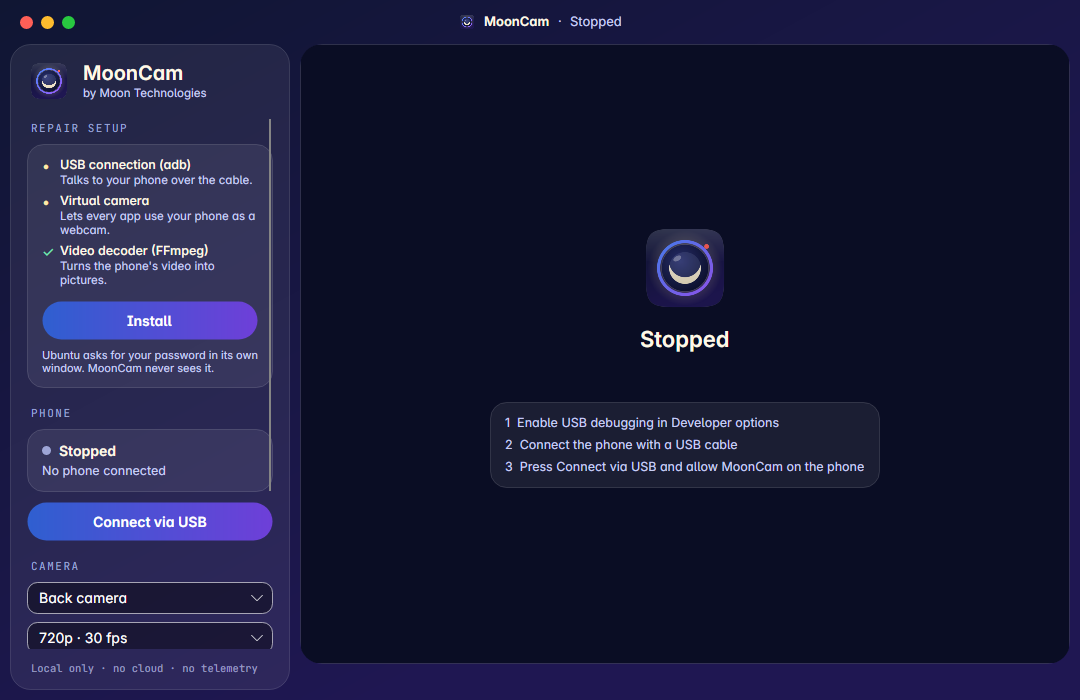
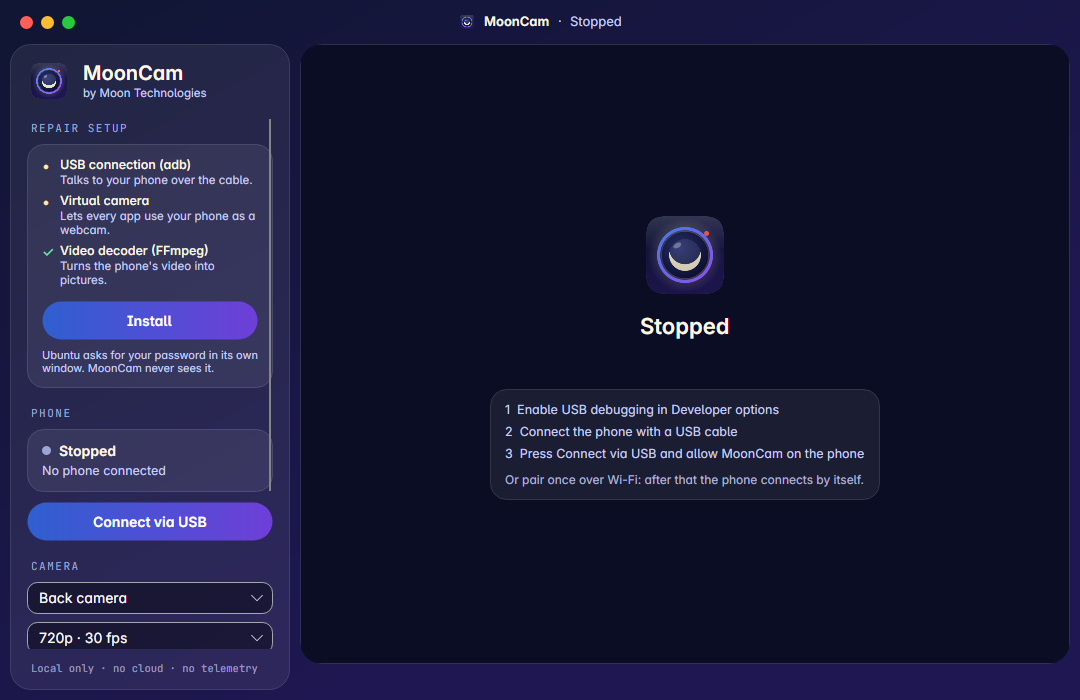
Show Wi-Fi pairing on the desktop: pair button, code to compare, paired phones
The pairing code appears large over the preview so it is compared at a
glance, paired phones can be removed, the desktop identity and paired-phone
store are created at start-up, and the package depends on avahi-utils so the
desktop is discoverable on the local network.

Changed region(s): [[0.4583, 0.57, 0.7944, 0.72], [0.5806, 0.3, 0.6722, 0.51]]

diff --git a/desktop/src/MoonCam.App/ViewModels/MainViewModel.cs b/desktop/src/MoonCam.App/ViewModels/MainViewModel.cs
@@ -14,6 +14,8 @@ public sealed record CameraOption(string Id, string Label);
 
 public sealed record PresetOption(string Label, int Width, int Height, int Fps);
 
+public sealed record PairedPhoneOption(string Name, string FingerprintHex, string Detail);
+
 /// <summary>
 /// State and commands of the main window. It knows nothing about Avalonia: UI-thread marshalling is
 /// injected, so the same class can be unit-tested.
@@ -43,10 +45,17 @@ public sealed partial class MainViewModel : ObservableObject, IDisposable
         _controller.StateChanged += state => _runOnUi(() => ShowState(state));
         _controller.CapabilitiesChanged += caps => _runOnUi(() => ShowCameras(caps));
         _controller.Notice += text => _runOnUi(() => Notice = text);
+        if (_controller.Pairing is { } pairing)
+        {
+            pairing.Changed += () => _runOnUi(ShowPairing);
+            pairing.Store.Changed += () => _runOnUi(ShowPairedPhones);
+        }
         _statsTimer = (time ?? TimeProvider.System).CreateTimer(_ => _runOnUi(UpdateStats), null, TimeSpan.FromSeconds(1), TimeSpan.FromSeconds(1));
 
         RefreshSetup();
         ShowState(_controller.State);
+        ShowPairing();
+        ShowPairedPhones();
     }
 
     public ObservableCollection<CameraOption> Cameras { get; } = [];
@@ -57,6 +66,10 @@ public sealed partial class MainViewModel : ObservableObject, IDisposable
 
     public ObservableCollection<Component> SetupItems { get; } = [];
 
+    public ObservableCollection<PairedPhoneOption> PairedPhones { get; } = [];
+
+    /// <summary>False when the desktop runs USB-only (no Wi-Fi identity).</summary>
+    public bool IsWiFiAvailable => _controller.Pairing is not null;
 
     [ObservableProperty] private string _statusTitle = "Starting…";
     [ObservableProperty] private string _statusDetail = "";
@@ -73,6 +86,11 @@ public sealed partial class MainViewModel : ObservableObject, IDisposable
     [ObservableProperty] private string _virtualCameraStatus = "";
     [ObservableProperty] private bool _isSetupComplete = true;
     [ObservableProperty] private bool _isInstalling;
+    [ObservableProperty] private bool _isPairingOpen;
+    [ObservableProperty] private string _pairingCountdown = "";
+    [ObservableProperty] private string? _pairingCode;
+    [ObservableProperty] private string _pairingPhone = "";
+    [ObservableProperty] private bool _hasPairedPhones;
 
     [RelayCommand]
     private async Task ConnectUsbAsync()
@@ -85,6 +103,32 @@ public sealed partial class MainViewModel : ObservableObject, IDisposable
         {
             Notice = e.Message;
         }
+    }
+
+    /// <summary>Opens the two-minute window in which a phone on the same Wi-Fi may pair.</summary>
+    [RelayCommand]
+    private void PairOverWiFi() => _controller.Pairing?.OpenWindow();
+
+    [RelayCommand]
+    private void CancelPairing()
+    {
+        _controller.Pairing?.RejectPending();
+        _controller.Pairing?.CloseWindow();
+    }
+
+    /// <summary>The user checked that the phone shows the same six digits.</summary>
+    [RelayCommand]
+    private void ApprovePairing()
+    {
+        if (_controller.Pairing?.ApprovePending() == true)
+            Notice = "Codes confirmed. Waiting for the phone to confirm too…";
+    }
+
+    [RelayCommand]
+    private void RemovePairedPhone(PairedPhoneOption phone)
+    {
+        _controller.Pairing?.Store.Remove(phone.FingerprintHex);
+        Notice = $"{phone.Name} can no longer connect over Wi-Fi.";
     }
 
     [RelayCommand]
@@ -178,10 +222,13 @@ public sealed partial class MainViewModel : ObservableObject, IDisposable
     {
         IsLive = state == ConnectionState.Streaming;
         IsWaiting = state is ConnectionState.Listening or ConnectionState.Reconnecting or ConnectionState.Stopped or ConnectionState.Handshaking;
-        PhoneName = _controller.Phone is { } phone ? $"{phone.Manufacturer} {phone.Model}" : "No phone connected";
+        var via = _controller.CurrentTransport switch { Transport.WiFi => " · Wi-Fi", Transport.Usb => " · USB", _ => "" };
+        PhoneName = _controller.Phone is { } phone ? $"{phone.Manufacturer} {phone.Model}{via}" : "No phone connected";
         (StatusTitle, StatusDetail) = state switch
         {
-            ConnectionState.Listening => ("Waiting for your phone", "Plug it in with a USB cable and press Connect."),
+            ConnectionState.Listening => ("Waiting for your phone", IsWiFiAvailable
+                ? "Open MoonCam on your phone: it connects over Wi-Fi once paired, or plug in the cable and press Connect via USB."
+                : "Plug it in with a USB cable and press Connect."),
             ConnectionState.Handshaking => ("Connecting…", "Checking that this is your phone."),
             ConnectionState.Connected => ("Connected", "Starting the camera…"),
             ConnectionState.Streaming => ("Live", "Your phone is streaming to this computer."),
@@ -190,25 +237,60 @@ public sealed partial class MainViewModel : ObservableObject, IDisposable
         };
     }
 
+    private void ShowPairing()
+    {
+        if (_controller.Pairing is not { } pairing)
+            return;
+        IsPairingOpen = pairing.IsWindowOpen || pairing.Pending is not null;
+        var request = pairing.Pending;
+        PairingCode = request is null ? null : Pairing.Format(request.Code);
+        PairingPhone = request?.PhoneName ?? "";
+        var remaining = pairing.Remaining;
+        PairingCountdown = string.Create(CultureInfo.InvariantCulture, $"{(int)remaining.TotalMinutes}:{remaining.Seconds:00}");
+    }
+
+    private void ShowPairedPhones()
+    {
+        PairedPhones.Clear();
+        foreach (var phone in _controller.Pairing?.Store.All ?? [])
+            PairedPhones.Add(new PairedPhoneOption(phone.Name, phone.FingerprintHex,
+                string.Create(CultureInfo.InvariantCulture, $"Paired {phone.PairedAt.LocalDateTime:d MMM yyyy}")));
+        HasPairedPhones = PairedPhones.Count > 0;
+    }
+
     private void ShowCameras(CapabilitiesMessage capabilities)
     {
         _applyingCapabilities = true;
         Cameras.Clear();
-        foreach (var camera in capabilities.Cameras)
-            Cameras.Add(new CameraOption(camera.PhysicalId ?? camera.Id, Describe(camera)));
-        SelectedCamera = Cameras.FirstOrDefault();
+        foreach (var option in DescribeAll(capabilities.Cameras))
+            Cameras.Add(option);
+        SelectedCamera = Cameras.FirstOrDefault(c => c.Id == _controller.Settings.CameraId) ?? Cameras.FirstOrDefault();
         _applyingCapabilities = false;
     }
 
-    private static string Describe(CameraInfo camera)
+    /// <summary>"Back camera · ultra-wide"; when two lenses would read the same, the focal length tells them apart.</summary>
+    public static IReadOnlyList<CameraOption> DescribeAll(IReadOnlyList<CameraInfo> cameras)
     {
-        var facing = camera.Facing switch { "front" => "Front", "external" => "External", _ => "Back" };
-        var lens = camera.Lens switch { "ultraWide" => " · ultra-wide", "telephoto" => " · telephoto", _ => "" };
-        return $"{facing} camera{lens}";
+        static string Base(CameraInfo camera)
+        {
+            var facing = camera.Facing switch { "front" => "Front", "external" => "External", _ => "Back" };
+            var lens = camera.Lens switch { "ultraWide" => " · ultra-wide", "telephoto" => " · telephoto", _ => "" };
+            return $"{facing} camera{lens}";
+        }
+        var counts = cameras.GroupBy(Base).ToDictionary(g => g.Key, g => g.Count());
+        return cameras.Select(camera =>
+        {
+            var label = Base(camera);
+            if (counts[label] > 1)
+                label += camera.FocalLengthMm is { } mm ? string.Create(CultureInfo.InvariantCulture, $" · {mm:0.#} mm") : $" · #{camera.PhysicalId ?? camera.Id}";
+            return new CameraOption(camera.PhysicalId ?? camera.Id, label);
+        }).ToList();
     }
 
     private void UpdateStats()
     {
+        if (IsPairingOpen)
+            ShowPairing(); // keeps the countdown moving and closes the card when the window expires
         if (!IsLive)
         {
             StatsText = "";

diff --git a/desktop/tests/MoonCam.App.Tests/MainWindowSnapshotTests.cs b/desktop/tests/MoonCam.App.Tests/MainWindowSnapshotTests.cs
@@ -60,9 +60,27 @@ public class MainWindowSnapshotTests
         Save(window, "mooncam-live.png");
     }
 
-    private static (MainWindow, MainViewModel) Open()
+    [AvaloniaFact]
+    public void Pairing_card_shows_the_code_to_compare()
     {
-        var controller = new StreamController(TimeProvider.System, () => new NullDecoder(), port: 0);
+        var config = Directory.CreateTempSubdirectory("mooncam-ui-").FullName;
+        var wifi = new WiFiOptions(MoonCam.Infrastructure.Security.DesktopIdentity.LoadOrCreate(config),
+            new MoonCam.Core.Session.PairingCoordinator(new MoonCam.Infrastructure.Security.JsonPairedPhoneStore(config), TimeProvider.System),
+            Port: 0, Advertise: false);
+        var (window, vm) = Open(wifi);
+        vm.IsPairingOpen = true;
+        vm.PairingPhone = "Redmi Note 13 Pro";
+        vm.PairingCode = "482 913";
+        vm.StatusTitle = "Waiting for your phone";
+
+        Assert.True(vm.IsWiFiAvailable);
+        Save(window, "mooncam-pairing.png");
+        Directory.Delete(config, recursive: true);
+    }
+
+    private static (MainWindow, MainViewModel) Open(WiFiOptions? wifi = null)
+    {
+        var controller = new StreamController(TimeProvider.System, () => new NullDecoder(), port: 0, wifi: wifi);
         var vm = new MainViewModel(controller, new NoVirtualCameras(), new MissingDriverSetup());
         var window = new MainWindow { DataContext = vm, Width = 1080, Height = 700 };
         window.Show();

diff --git a/desktop/src/MoonCam.App/App.axaml.cs b/desktop/src/MoonCam.App/App.axaml.cs
@@ -4,7 +4,9 @@ using Avalonia.Markup.Xaml;
 using MoonCam.App.ViewModels;
 using MoonCam.App.Views;
 using MoonCam.Infrastructure.Decoding;
+using MoonCam.Core.Session;
 using MoonCam.Infrastructure.Diagnostics;
+using MoonCam.Infrastructure.Security;
 using MoonCam.Infrastructure.Streaming;
 using MoonCam.Platform.Linux.Setup;
 using MoonCam.Platform.Linux.Video;
@@ -28,7 +30,9 @@ public sealed class App : Application
                 e.SetObserved();
             };
             log.Info($"MoonCam {typeof(App).Assembly.GetName().Version} starting");
-            var controller = new StreamController(TimeProvider.System, () => new FfmpegVideoDecoder(), fixedToken: DevelopmentToken(desktop.Args), log: log);
+            var wifi = new WiFiOptions(DesktopIdentity.LoadOrCreate(), new PairingCoordinator(new JsonPairedPhoneStore(), TimeProvider.System));
+            var controller = new StreamController(TimeProvider.System, () => new FfmpegVideoDecoder(),
+                fixedToken: DevelopmentToken(desktop.Args), log: log, wifi: wifi);
             var setup = new LinuxSystemSetup(() => FfmpegVideoDecoder.IsAvailable);
             var viewModel = new MainViewModel(controller, new LinuxVirtualCameras(), setup, action => Avalonia.Threading.Dispatcher.UIThread.Post(action));
             var window = new MainWindow { DataContext = viewModel };
